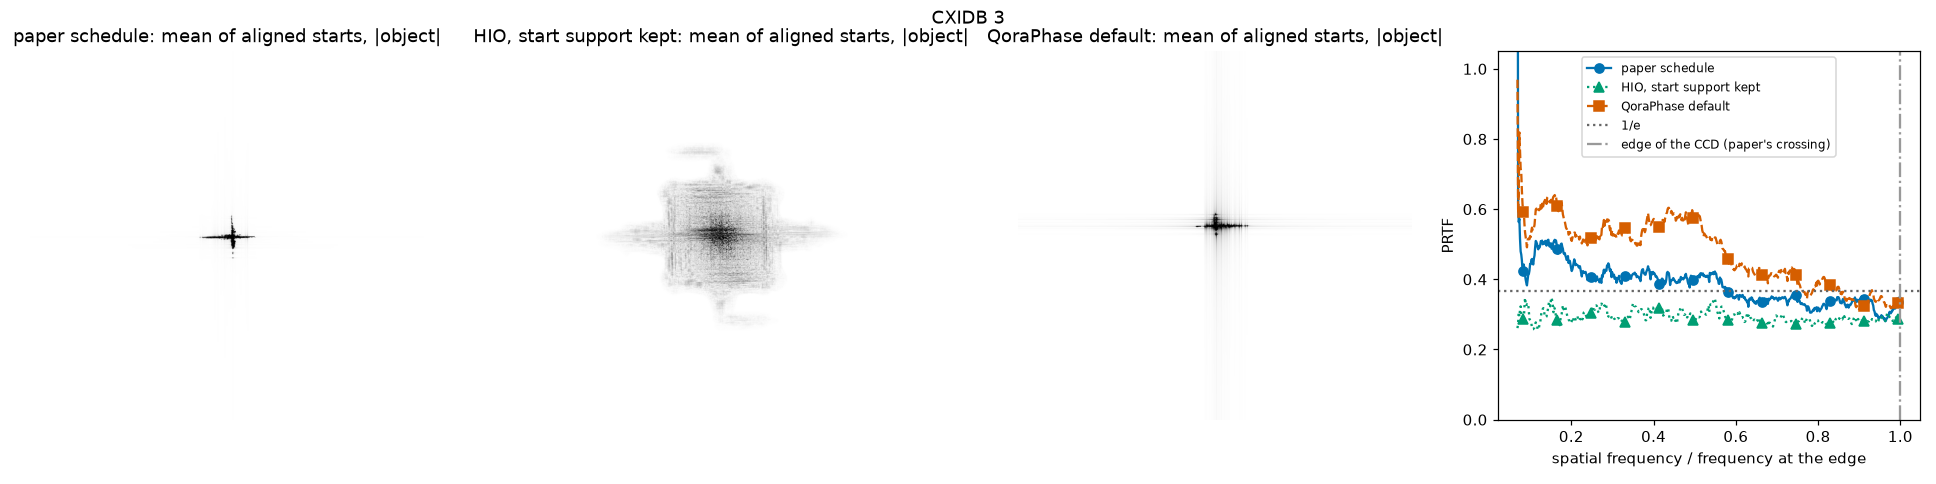
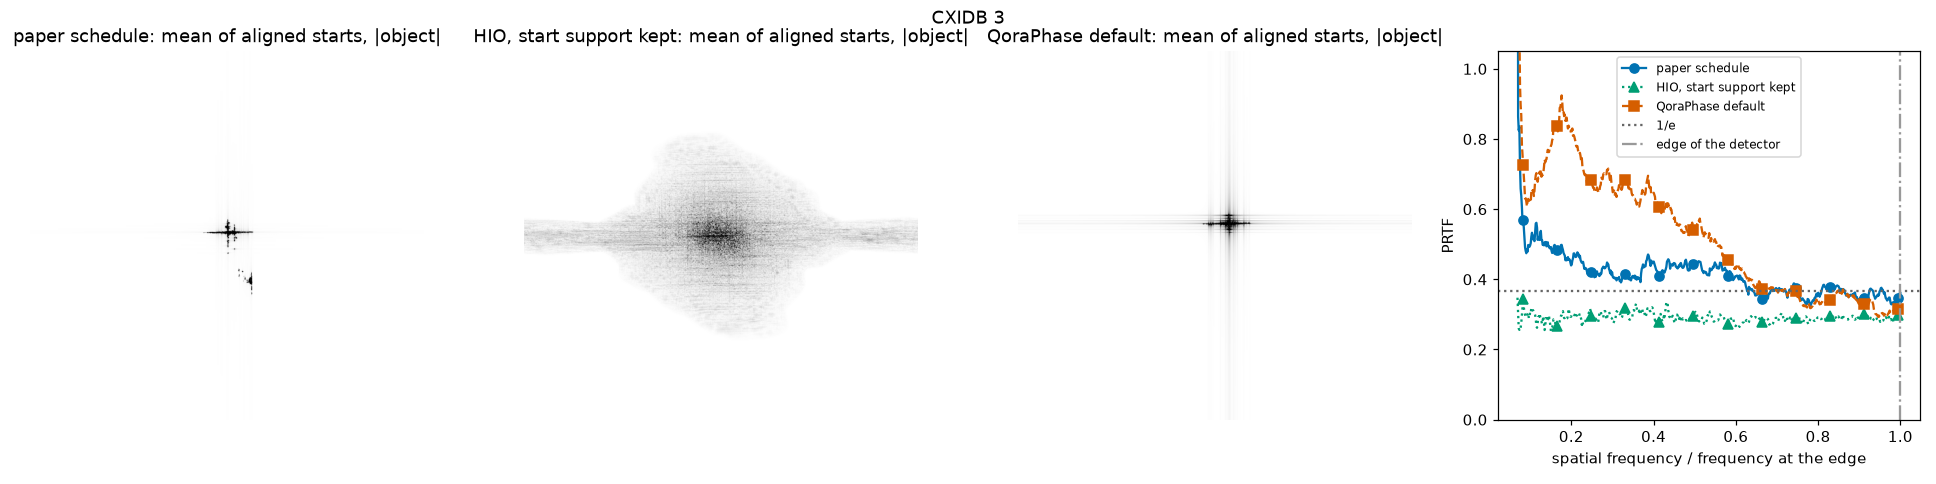
docs(benchmarks): rerun the ladder and CXIDB with the masked-centre start support (#60)
The reconstructions behind `docs/benchmarks/ladder.md` and `docs/benchmarks/cxidb.md` were run with the start support from before #57. This reruns both with the library as it is on main (054ae37), on CPU.

Ladder: only the stage 3 rows with a masked centre and the autocorrelation support change. The other rows reproduce their errors; only timings move.

| stage 3, autocorrelation + shrinkwrap | before | after |
|---|---|---|
| beamstop | 0/20, median 0.914 | 0/20, median 0.927 |
| beamstop, gaps and phase | 0/20, median 0.907 | 0/20, median 0.852 |

The start support now contains the object in both cases (820 of 820 object pixels inside 2891 and 3393 px), so the failure is downstream of the start support: #59.

CXIDB, Fourier residual, median (best) of 10 starts, before -> after:

| | entry 3 | entry 28 |
|---|---|---|
| start support, px | 172143 -> 327908 | 94173 -> 168273 |
| paper schedule | 0.422 (0.355) -> 0.442 (0.379) | 0.156 (0.144) -> 0.076 (0.057) |
| HIO, start support kept | 0.065 (0.064) -> 0.046 (0.046) | 0.033 (0.032) -> 0.018 (0.018) |
| `default_recipe()` | 0.485 (0.462) -> 0.546 (0.433) | 0.183 (0.171) -> 0.179 (0.172) |

Neither published reconstruction is reproduced: `default_recipe()` still ends on a cross through the centre on both entries, and on entry 28 the paper schedule now ends on a thin vertical line instead of a small blob. The status lines in `benchmarks/cxidb.py` are updated to match, pointing to #59.

physics 확인 필요
[…]

diff --git a/benchmarks/cxidb.py b/benchmarks/cxidb.py
@@ -110,7 +110,7 @@ ENTRIES = {
         (
             "not reproduced. The paper schedule and `default_recipe()` end on a cross through the "
             "centre; HIO with the start support kept fits the data, but its starts do not agree "
-            "with each other. Suspected causes in #38"
+            "with each other. The larger start support of #38 does not change this (#59)"
         ),
     ),
     28: Entry(
@@ -138,8 +138,8 @@ ENTRIES = {
         als_schedule,
         2000,
         (
-            "not reproduced. The paper schedule ends on a small blob and `default_recipe()` on a "
-            "cross through the centre, not the two clusters of the paper; HIO with the start "
+            "not reproduced. The paper schedule ends on a thin vertical line and `default_recipe()` "
+            "on a cross through the centre, not the two clusters of the paper (#59); HIO with the start "
             "support kept fits the data, but its starts do not agree with each other. The "
             "paper's 4 % autocorrelation support keeps 51 px (#38)"
         ),

diff --git a/docs/benchmarks/cxidb.md b/docs/benchmarks/cxidb.md
@@ -4,24 +4,24 @@ Generated by `benchmarks/cxidb.py` (method in its docstring).
 
 ## CXIDB 3
 
-Status: not reproduced. The paper schedule and `default_recipe()` end on a cross through the centre; HIO with the start support kept fits the data, but its starts do not agree with each other. Suspected causes in #38.
+Status: not reproduced. The paper schedule and `default_recipe()` end on a cross through the centre; HIO with the start support kept fits the data, but its starts do not agree with each other. The larger start support of #38 does not change this (#59).
 
 - H. N. Chapman et al., Femtosecond diffractive imaging with a soft-X-ray free-electron laser, Nat. Phys. 2, 839 (2006), doi:10.1038/nphys461; data CXIDB 3, doi:10.11577/1096905
 - the paper: Shrinkwrap with HIO, the support updated every 70 iterations at 0.2 of the maximum after a Gaussian blur going from 3 to 0.7 px FWHM by iteration 5000, 3000 to 4000 iterations, the mirror hole left free, no reality or positivity; the image is the average of 250 reconstructions, and its PRTF drops to 1/e at the edge of the CCD
-- run 2026-10-27 09:04 Korea Standard Time, commit e71a17d
+- run 2026-11-09 21:28 Korea Standard Time, commit 054ae37
 - Python 3.14.5, JAX 0.11.1, jaxlib 0.11.1, NumPy 2.5.2, qoraphase 0.2.0
 - device cpu:0, x64 off
 - Windows-11-10.0.26300-SP0, processor AMD64 Family 25 Model 97 Stepping 2, AuthenticAMD
-- preparation: background (median of a 64 px border) subtracted, saturated pixels and their neighbours masked, the mirror hole masked to 45 px around the centre of symmetry (610.5, 688.5); cropped to 1220 x 1304 about the centre of symmetry, 9133 pixels masked; start support 172143 px
-- start support for all three recipes: the blurred autocorrelation (sigma 12 px) above 3 times its median, the first rule of `masked_autocorrelation_support` (run before the move, with a benchmark-local copy; the library now cuts at 2 times the median and fills along rays, #38); a fraction of its maximum keeps only the cross of the window-frame streaks (#38)
+- preparation: background (median of a 64 px border) subtracted, saturated pixels and their neighbours masked, the mirror hole masked to 45 px around the centre; cropped to 1220 x 1304 about the centre of symmetry (610.5, 688.5), 9133 pixels masked; start support 327908 px
+- start support for all three recipes: the library's own, `CDI(intensity, mask=mask)`: with the centre masked, the blurred autocorrelation above 2 times its median, filled outward along rays; a fraction of its maximum keeps only the cross of the window-frame streaks (#38)
 - paper schedule: 3500 HIO iterations (beta 0.9) with the paper's support updates, and 200 ER; HIO, start support kept: the same iterations with no support update; QoraPhase default: `default_recipe()`, 720 iterations
 - PRTF over the aligned starts (shift to 1/10 px, phase, twin); its 1/e crossing as a fraction of the frequency at the edge of the detector
 
 | recipe | starts | Fourier residual, median (best) | mutual error among starts, median | PRTF 1/e crossing / edge | s per start, incl. compile |
 |---|---:|---:|---:|---:|---:|
-| paper schedule | 10 | 0.422 (0.355) | 0.916 | 0.58 | 57 |
-| HIO, start support kept | 10 | 0.065 (0.064) | 0.995 | below 1/e throughout | 56 |
-| QoraPhase default | 10 | 0.485 (0.462) | 0.893 | 0.76 | 11 |
+| paper schedule | 10 | 0.442 (0.379) | 0.937 | 0.63 | 54 |
+| HIO, start support kept | 10 | 0.046 (0.046) | 0.998 | below 1/e throughout | 54 |
+| QoraPhase default | 10 | 0.546 (0.433) | 0.890 | 0.69 | 10 |
 
 ![CXIDB 3](cxidb-3.png)
 
@@ -29,24 +29,24 @@ Physics check needed: the numbers are reported without interpretation.
 
 ## CXIDB 28
 
-Status: not reproduced. The paper schedule ends on a small blob and `default_recipe()` on a cross through the centre, not the two clusters of the paper; HIO with the start support kept fits the data, but its starts do not agree with each other. The paper's 4 % autocorrelation support keeps 51 px (#38).
+Status: not reproduced. The paper schedule ends on a thin vertical line and `default_recipe()` on a cross through the centre, not the two clusters of the paper (#59); HIO with the start support kept fits the data, but its starts do not agree with each other. The paper's 4 % autocorrelation support keeps 51 px (#38).
 
 - S. Marchesini et al., X-ray image reconstruction from a diffraction pattern alone, Phys. Rev. B 68, 140101(R) (2003), doi:10.1103/PhysRevB.68.140101; data CXIDB 28, doi:10.11577/1172615
 - the paper: the autocorrelation at 4 % as the first support, HIO (beta 0.9) with the beamstop region free, every 20 iterations a support at 0.2 of the maximum after a Gaussian blur of sigma 3 px, less 1 % per update down to 1.5 px; converged after a few hundred iterations, shown at 1000; resolution about 20 nm, no PRTF given
-- run 2026-10-27 09:17 Korea Standard Time, commit fbc54db
+- run 2026-11-09 21:43 Korea Standard Time, commit 054ae37
 - Python 3.14.5, JAX 0.11.1, jaxlib 0.11.1, NumPy 2.5.2, qoraphase 0.2.0
 - device cpu:0, x64 off
 - Windows-11-10.0.26300-SP0, processor AMD64 Family 25 Model 97 Stepping 2, AuthenticAMD
-- preparation: as deposited (background already subtracted); the zero pixels masked; cropped to 1024 x 1020 about the centre of symmetry (511.5, 510.5), 56479 pixels masked; start support 94173 px
-- start support for all three recipes: the blurred autocorrelation (sigma 12 px) above 3 times its median, the first rule of `masked_autocorrelation_support` (run before the move, with a benchmark-local copy; the library now cuts at 2 times the median and fills along rays, #38); the paper's 4 % of the maximum keeps 51 px here, the failure of #38
+- preparation: as deposited (background already subtracted); the zero pixels masked; cropped to 1024 x 1020 about the centre of symmetry (511.5, 510.5), 56479 pixels masked; start support 168273 px
+- start support for all three recipes: the library's own, `CDI(intensity, mask=mask)`: with the centre masked, the blurred autocorrelation above 2 times its median, filled outward along rays; the paper's 4 % of the maximum keeps 51 px here, the failure of #38
 - paper schedule: 2000 HIO iterations (beta 0.9) with the paper's support updates, and 200 ER; HIO, start support kept: the same iterations with no support update; QoraPhase default: `default_recipe()`, 720 iterations
 - PRTF over the aligned starts (shift to 1/10 px, phase, twin); its 1/e crossing as a fraction of the frequency at the edge of the detector
 
 | recipe | starts | Fourier residual, median (best) | mutual error among starts, median | PRTF 1/e crossing / edge | s per start, incl. compile |
 |---|---:|---:|---:|---:|---:|
-| paper schedule | 10 | 0.156 (0.144) | 0.979 | 0.41 | 20 |
-| HIO, start support kept | 10 | 0.033 (0.032) | 0.997 | below 1/e throughout | 19 |
-| QoraPhase default | 10 | 0.183 (0.171) | 0.910 | 0.46 | 6 |
+| paper schedule | 10 | 0.076 (0.057) | 0.998 | below 1/e throughout | 22 |
+| HIO, start support kept | 10 | 0.018 (0.018) | 1.000 | below 1/e throughout | 17 |
+| QoraPhase default | 10 | 0.179 (0.172) | 0.954 | 0.48 | 5 |
 
 ![CXIDB 28](cxidb-28.png)
 

diff --git a/docs/benchmarks/ladder.md b/docs/benchmarks/ladder.md
@@ -2,7 +2,7 @@
 
 Generated by `benchmarks/ladder.py`; the method is in its docstring. Synthetic data only: these numbers say nothing about measured scans.
 
-- run 2026-11-04 19:17 Korea Standard Time, commit 105cfc6
+- run 2026-11-09 20:44 Korea Standard Time, commit 054ae37
 - Python 3.14.5, JAX 0.11.1, jaxlib 0.11.1, NumPy 2.5.2, qoraphase 0.2.0
 - device cpu:0, x64 off
 - Windows-11-10.0.26300-SP0, processor AMD64 Family 25 Model 97 Stepping 2, AuthenticAMD
@@ -16,30 +16,30 @@ Generated by `benchmarks/ladder.py`; the method is in its docstring. Synthetic d
 
 | stage | peak counts | condition | support | success | twin | real-space error, median (IQR) | Fourier residual, median | residual / noise floor | first call s | warm s |
 |---:|---:|---|---|---:|---:|---:|---:|---:|---:|---:|
-| 1 | noiseless | - | exact | 20/20 | 0 | 1.11e-07 (1.06e-07 to 1.18e-07) | 1.36e-07 | n/a | 1.1 | 0.6 |
-| 1 | noiseless | - | dilated 2 px | 4/20 | 0 | 1.37e-01 (1.19e-01 to 1.67e-01) | 8.20e-03 | n/a | 0.8 | 0.8 |
-| 1 | noiseless | - | autocorrelation + shrinkwrap | 7/20 | 11 | 1.10e-01 (6.89e-02 to 4.92e-01) | 1.83e-02 | n/a | 1.3 | 0.8 |
-| 2 | 1e+04 | - | exact | 20/20 | 0 | 6.10e-02 (5.58e-02 to 7.16e-02) | 9.69e-02 | 0.91 | 0.8 | 0.8 |
+| 1 | noiseless | - | exact | 20/20 | 0 | 1.11e-07 (1.06e-07 to 1.18e-07) | 1.36e-07 | n/a | 1.8 | 1.0 |
+| 1 | noiseless | - | dilated 2 px | 4/20 | 0 | 1.37e-01 (1.19e-01 to 1.67e-01) | 8.20e-03 | n/a | 0.9 | 0.8 |
+| 1 | noiseless | - | autocorrelation + shrinkwrap | 7/20 | 11 | 1.10e-01 (6.89e-02 to 4.92e-01) | 1.83e-02 | n/a | 1.6 | 0.8 |
+| 2 | 1e+04 | - | exact | 20/20 | 0 | 6.10e-02 (5.58e-02 to 7.16e-02) | 9.69e-02 | 0.91 | 0.8 | 0.9 |
 | 2 | 1e+04 | - | dilated 2 px | 0/20 | 0 | 3.13e-01 (3.05e-01 to 3.20e-01) | 9.76e-02 | 0.92 | 0.8 | 0.8 |
-| 2 | 1e+04 | - | autocorrelation + shrinkwrap | 0/20 | 10 | 1.81e-01 (1.72e-01 to 2.51e-01) | 9.78e-02 | 0.92 | 0.8 | 0.8 |
-| 2 | 1e+06 | - | exact | 20/20 | 0 | 6.40e-03 (6.40e-03 to 6.40e-03) | 1.43e-02 | 0.95 | 0.8 | 0.8 |
-| 2 | 1e+06 | - | dilated 2 px | 6/20 | 0 | 1.33e-01 (8.90e-02 to 1.90e-01) | 1.56e-02 | 1.03 | 0.8 | 0.8 |
+| 2 | 1e+04 | - | autocorrelation + shrinkwrap | 0/20 | 10 | 1.81e-01 (1.72e-01 to 2.51e-01) | 9.78e-02 | 0.92 | 0.8 | 1.0 |
+| 2 | 1e+06 | - | exact | 20/20 | 0 | 6.40e-03 (6.40e-03 to 6.40e-03) | 1.43e-02 | 0.95 | 0.8 | 0.7 |
+| 2 | 1e+06 | - | dilated 2 px | 6/20 | 0 | 1.33e-01 (8.90e-02 to 1.90e-01) | 1.56e-02 | 1.03 | 0.7 | 0.9 |
 | 2 | 1e+06 | - | autocorrelation + shrinkwrap | 9/20 | 11 | 1.09e-01 (7.96e-02 to 5.96e-01) | 1.92e-02 | 1.28 | 0.8 | 0.8 |
-| 2 | 1e+08 | - | exact | 20/20 | 0 | 6.05e-04 (6.05e-04 to 6.05e-04) | 1.30e-03 | 0.95 | 0.8 | 0.8 |
-| 2 | 1e+08 | - | dilated 2 px | 8/20 | 0 | 1.24e-01 (8.46e-02 to 1.72e-01) | 6.97e-03 | 5.10 | 0.8 | 0.8 |
-| 2 | 1e+08 | - | autocorrelation + shrinkwrap | 9/20 | 14 | 1.03e-01 (3.67e-02 to 1.86e-01) | 1.32e-02 | 9.66 | 0.8 | 0.8 |
-| 3 | 1e+06 | beamstop | exact | 20/20 | 0 | 6.42e-03 (6.42e-03 to 6.42e-03) | 2.57e-02 | 0.95 | 0.8 | 0.8 |
+| 2 | 1e+08 | - | exact | 20/20 | 0 | 6.05e-04 (6.05e-04 to 6.05e-04) | 1.30e-03 | 0.95 | 0.7 | 0.8 |
+| 2 | 1e+08 | - | dilated 2 px | 8/20 | 0 | 1.24e-01 (8.46e-02 to 1.72e-01) | 6.97e-03 | 5.10 | 0.7 | 0.7 |
+| 2 | 1e+08 | - | autocorrelation + shrinkwrap | 9/20 | 14 | 1.03e-01 (3.67e-02 to 1.86e-01) | 1.32e-02 | 9.66 | 0.8 | 0.7 |
+| 3 | 1e+06 | beamstop | exact | 20/20 | 0 | 6.42e-03 (6.42e-03 to 6.42e-03) | 2.57e-02 | 0.95 | 0.6 | 0.6 |
 | 3 | 1e+06 | beamstop | dilated 2 px | 0/20 | 0 | 2.26e-01 (2.07e-01 to 2.39e-01) | 3.06e-02 | 1.13 | 0.8 | 0.8 |
-| 3 | 1e+06 | beamstop | autocorrelation + shrinkwrap | 0/20 | 9 | 9.14e-01 (8.97e-01 to 9.30e-01) | 2.71e-01 | 10.03 | 0.8 | 0.8 |
-| 3 | 1e+06 | gaps + dead pixels | exact | 20/20 | 0 | 7.03e-03 (7.03e-03 to 7.03e-03) | 1.40e-02 | 0.94 | 0.8 | 0.8 |
-| 3 | 1e+06 | gaps + dead pixels | dilated 2 px | 4/20 | 0 | 1.33e-01 (1.19e-01 to 1.91e-01) | 1.56e-02 | 1.06 | 0.8 | 0.8 |
-| 3 | 1e+06 | gaps + dead pixels | autocorrelation + shrinkwrap | 10/20 | 13 | 9.93e-02 (7.14e-03 to 2.65e-01) | 1.84e-02 | 1.24 | 0.8 | 0.8 |
+| 3 | 1e+06 | beamstop | autocorrelation + shrinkwrap | 0/20 | 4 | 9.27e-01 (8.77e-01 to 9.39e-01) | 4.11e-01 | 15.18 | 0.7 | 0.7 |
+| 3 | 1e+06 | gaps + dead pixels | exact | 20/20 | 0 | 7.03e-03 (7.03e-03 to 7.03e-03) | 1.40e-02 | 0.94 | 0.7 | 0.8 |
+| 3 | 1e+06 | gaps + dead pixels | dilated 2 px | 4/20 | 0 | 1.33e-01 (1.19e-01 to 1.91e-01) | 1.56e-02 | 1.06 | 0.7 | 0.7 |
+| 3 | 1e+06 | gaps + dead pixels | autocorrelation + shrinkwrap | 10/20 | 13 | 9.93e-02 (7.14e-03 to 2.65e-01) | 1.84e-02 | 1.24 | 0.6 | 0.7 |
 | 3 | 1e+06 | phase ±2.5 rad | exact | 20/20 | 0 | 5.22e-03 (5.22e-03 to 5.22e-03) | 1.14e-02 | 0.95 | 0.8 | 0.8 |
-| 3 | 1e+06 | phase ±2.5 rad | dilated 2 px | 3/20 | 0 | 1.79e-01 (1.33e-01 to 2.24e-01) | 1.55e-02 | 1.29 | 0.8 | 0.8 |
-| 3 | 1e+06 | phase ±2.5 rad | autocorrelation + shrinkwrap | 4/20 | 10 | 4.45e-01 (1.34e-01 to 6.56e-01) | 7.59e-02 | 6.31 | 0.8 | 0.8 |
-| 3 | 1e+06 | all three | exact | 20/20 | 0 | 5.58e-03 (5.58e-03 to 5.58e-03) | 1.66e-02 | 0.95 | 0.8 | 0.8 |
-| 3 | 1e+06 | all three | dilated 2 px | 0/20 | 0 | 2.14e-01 (1.96e-01 to 7.66e-01) | 2.73e-02 | 1.56 | 0.8 | 0.8 |
-| 3 | 1e+06 | all three | autocorrelation + shrinkwrap | 0/20 | 9 | 9.07e-01 (8.42e-01 to 9.26e-01) | 2.79e-01 | 15.95 | 0.8 | 0.8 |
+| 3 | 1e+06 | phase ±2.5 rad | dilated 2 px | 3/20 | 0 | 1.79e-01 (1.33e-01 to 2.24e-01) | 1.55e-02 | 1.29 | 0.8 | 0.7 |
+| 3 | 1e+06 | phase ±2.5 rad | autocorrelation + shrinkwrap | 4/20 | 10 | 4.45e-01 (1.34e-01 to 6.56e-01) | 7.59e-02 | 6.31 | 0.8 | 0.9 |
+| 3 | 1e+06 | all three | exact | 20/20 | 0 | 5.58e-03 (5.58e-03 to 5.58e-03) | 1.66e-02 | 0.95 | 0.7 | 0.7 |
+| 3 | 1e+06 | all three | dilated 2 px | 0/20 | 0 | 2.14e-01 (1.96e-01 to 7.66e-01) | 2.73e-02 | 1.56 | 0.7 | 0.7 |
+| 3 | 1e+06 | all three | autocorrelation + shrinkwrap | 0/20 | 13 | 8.52e-01 (8.09e-01 to 8.80e-01) | 2.49e-01 | 14.24 | 0.7 | 0.7 |
 
 ![ladder](ladder.png)
 
